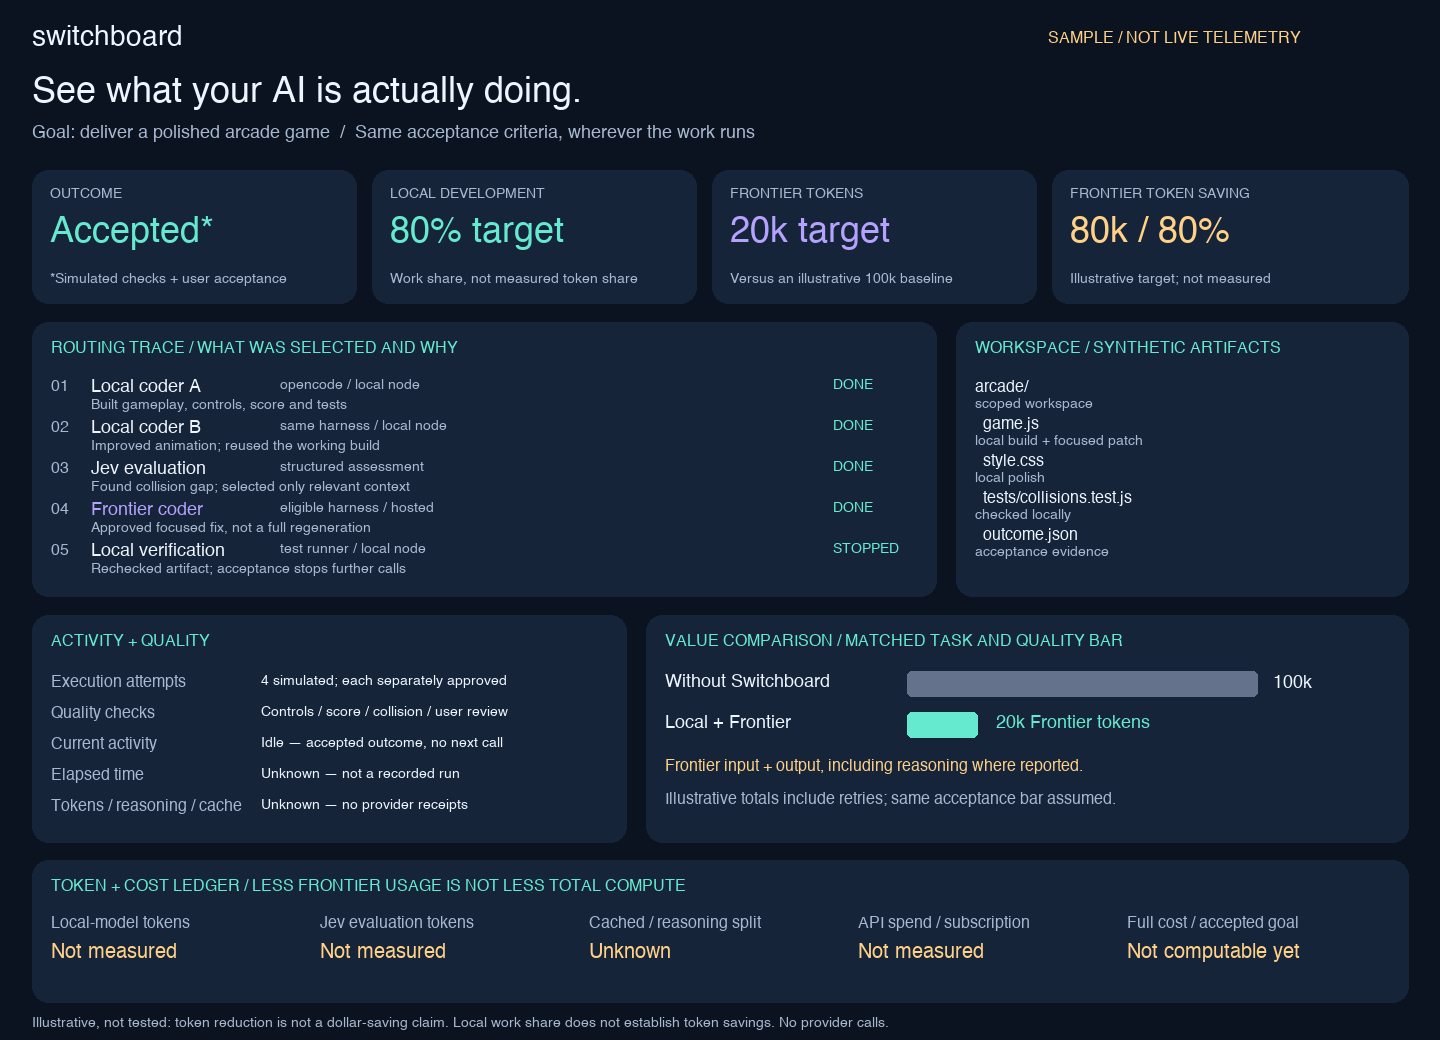
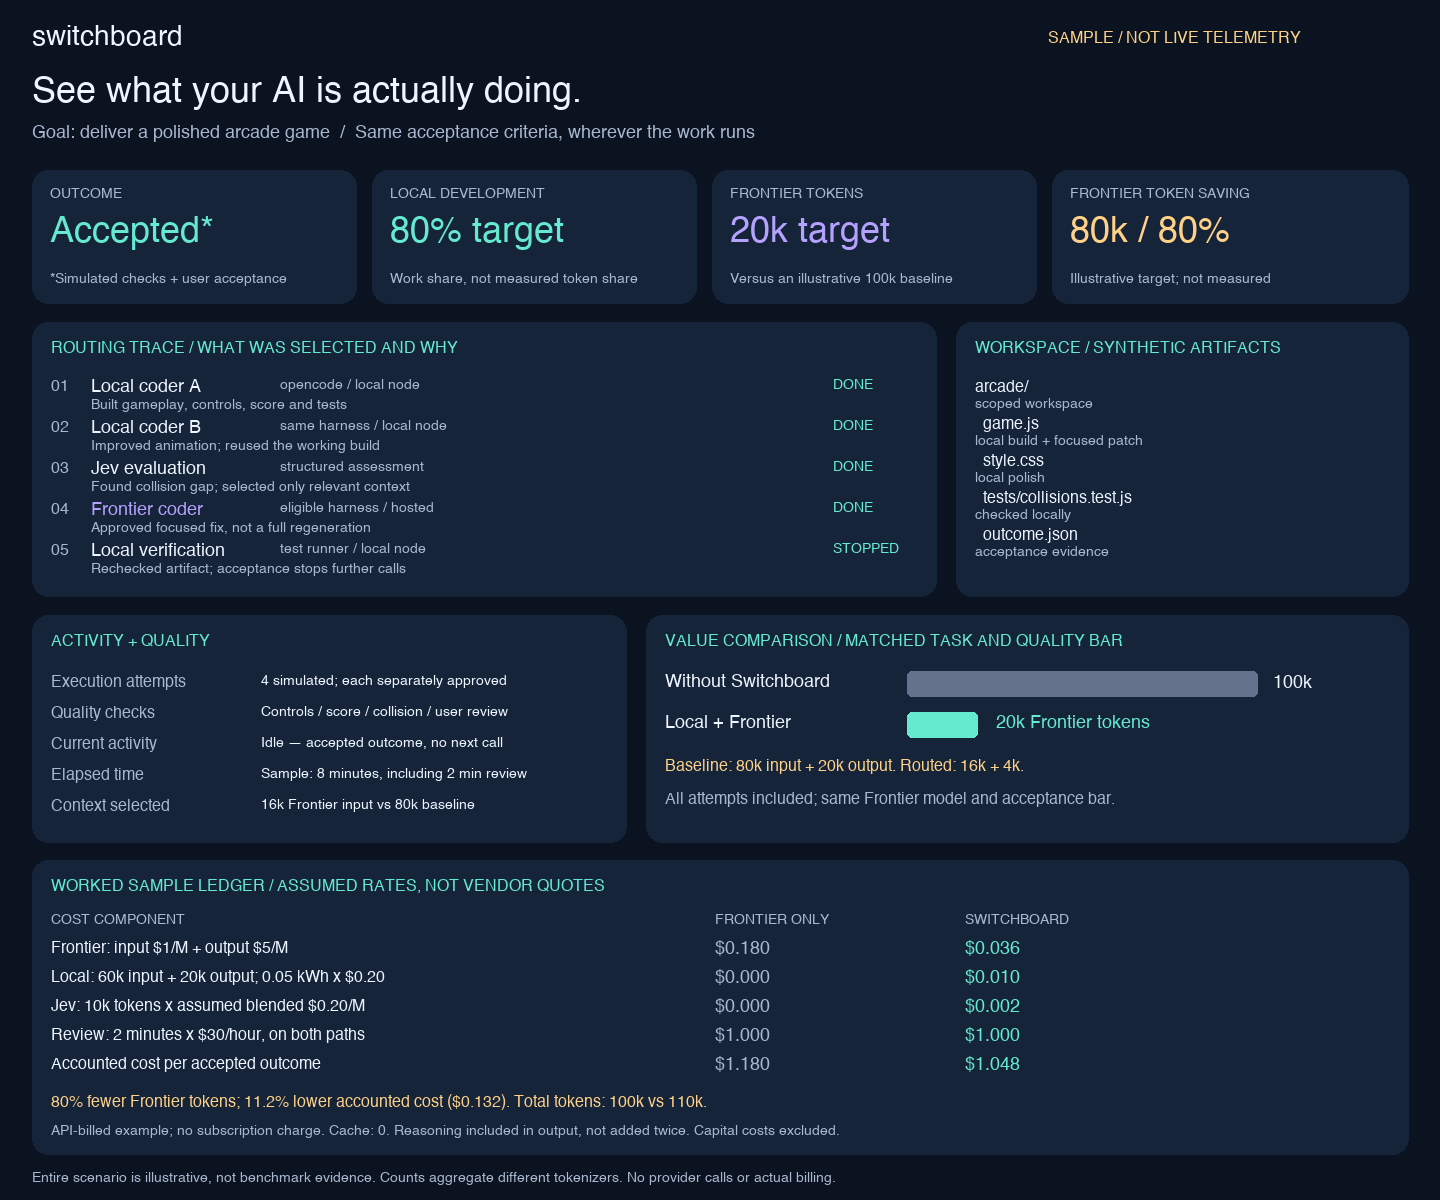
docs: add dated roadmap, worked ledger and inline video

Changed region(s): [[0.0, 0.0, 1.0, 1.0], [0.7812, 0.8615, 0.9062, 0.9231], [0.7188, 0.0308, 0.875, 0.0615]]

diff --git a/README.md b/README.md
@@ -12,9 +12,9 @@ I started Switchboard to get more useful work from the local models, machines an
 
 ## See the concept
 
-[![Watch the Switchboard concept preview](media/demo-poster.png)](media/switchboard-concept.mp4)
+https://github.com/user-attachments/assets/e40ba990-f4fc-4f20-9230-95560cad1611
 
-**Concept animation, not recorded product execution.** The interface and activity are simulated. No measured savings are claimed. Download the MP4 if your GitHub viewer does not play it inline.
+**Concept animation, not recorded product execution.** The interface and activity are simulated. No measured savings are claimed. [Download the MP4](media/switchboard-concept.mp4) as an optional fallback.
 
 ## Build locally. Find the gap. Spend deliberately.
 
@@ -44,7 +44,18 @@ The sample compares **100,000 Frontier tokens without Switchboard** with a **20,
 
 Local AI should deliver substantive working software—not just scaffolding. The separate **80% local-development target** describes a proposed work split; it does not establish an 80% token reduction.
 
-The comparison counts Frontier input and output across attempts, including reasoning where reported without double-counting it. Local-model tokens, Jev evaluation tokens, cache usage and full outcome costs remain separate and unknown until testing. Different tokenizers and billing categories also matter: fewer Frontier tokens do not automatically mean the same percentage reduction in dollars or total compute.
+The comparison counts Frontier input and output across attempts, including reasoning where reported without double-counting it. The sample ledger shows how the figures are derived; every usage count and rate below is an assumption, not a provider quote or a measured result.
+
+| Worked example | Frontier-only | Switchboard |
+| --- | ---: | ---: |
+| Frontier input / output tokens | 80,000 / 20,000 | 16,000 / 4,000 |
+| Frontier cost at assumed $1/M input + $5/M output | $0.180 | $0.036 |
+| Local tokens: 60,000 input + 20,000 output; energy: 0.05 kWh at $0.20/kWh | $0.000 | $0.010 |
+| Jev: 10,000 tokens at assumed blended $0.20/M | $0.000 | $0.002 |
+| Human review: 2 minutes at $30/hour | $1.000 | $1.000 |
+| **Accounted cost per accepted outcome** | **$1.180** | **$1.048** |
+
+This example yields **80% fewer Frontier tokens**, but **11.2% lower accounted outcome cost** ($0.132), because review and local work still count. Total token counts rise from 100,000 to 110,000 across different tokenizers; that sum is not a normalized compute measure. The scenario assumes API billing, no allocated subscription charge, no cache hits and reasoning included within output. Capital costs are excluded. It is not a complete total-cost-of-ownership estimate. Real measurements will replace these inputs.
 
 **What testing must establish:** equivalent accepted quality, complete usage receipts, retry and review overhead, and reproducible results against a matched baseline. The screenshot's acceptance and activity are simulated too.
 
@@ -69,16 +80,41 @@ The first planned trial is a small retro arcade game, followed by image and Comf
 
 ## Roadmap
 
-| Milestone | Status | What it must prove |
+**Planning baseline: 22 September 2026. Last evidence update: 22 September 2026 (Asia/Manila).**
+
+Dates below are provisional planning windows, not delivery commitments. Completed milestones reflect evidence already obtained; future bars do not imply work has started. Failed checks move the schedule rather than lower the acceptance bar.
+
+```mermaid
+gantt
+    title Switchboard — provisional development roadmap
+    dateFormat YYYY-MM-DD
+    axisFormat %d %b
+    section Established
+    Architecture documented           :milestone, done, architecture, 2026-09-22, 0d
+    Jev prototype tested              :milestone, done, prototype, 2026-09-22, 0d
+    Public concept and roadmap        :done, preview, 2026-09-22, 1d
+    section Prove the core
+    Offline controller and safety     :core, 2026-09-23, 7d
+    Local arcade game trial           :local, after core, 5d
+    Approved Frontier gap patching    :patch, after local, 4d
+    section Measure the outcome
+    Usage ledger and dashboard        :ledger, after patch, 5d
+    Matched quality and cost trials   :trials, after ledger, 5d
+    section Broaden and qualify
+    Image and ComfyUI trials          :media, after trials, 7d
+    Security and release readiness    :release, after media, 5d
+    Release review - not auto publish :milestone, review, after release, 0d
+```
+
+Release gates: bounded controller behavior; an accepted local artifact; approved patching that closes a specific gap; complete usage accounting; matched-quality comparisons; security review and explicit public-release approval. Additional Jev and harness qualification remains required.
+
+### Daily progress log
+
+Update cadence: daily evidence review in Asia/Manila time. Record what changed, what passed, blockers and the next useful step. If no new evidence exists, say so; never advance completion automatically. Automated posting is not configured yet.
+
+| Date | Evidence-backed update | Next / blocker |
 | --- | --- | --- |
-| Product and safety architecture | Documented | Clear ownership, human gates and outcome criteria |
-| Jev adapter | Prototype tested | Broader task qualification still needed |
-| Offline controller | Next | Goal intake, reservations, recovery and bounded actions |
-| Local arcade-game trial | Gated | A working artifact with acceptance evidence |
-| Targeted Frontier patching | Gated | Specific gaps resolved with approved spend |
-| Activity and value dashboard | Planned | Honest activity, files, model identity and cost statistics |
-| Image and ComfyUI workflows | Later | Reproducible quality and resource accounting |
-| Sanitized public implementation | Not released | Comprehensive testing and release approval |
+| 22 Sep 2026 | Architecture documented; Jev prototype tested. Public concept, sample token ledger and dated roadmap prepared. No end-to-end savings established. | Offline controller fixtures next. Private GitLab destination and daily publishing automation pending. |
 
 This README is the public update log. Development is private until an explicitly approved, sanitized public release. GitLab is the intended home for collaborator development; this GitHub repository is the public roadmap and concept preview, not an installable release.
 
